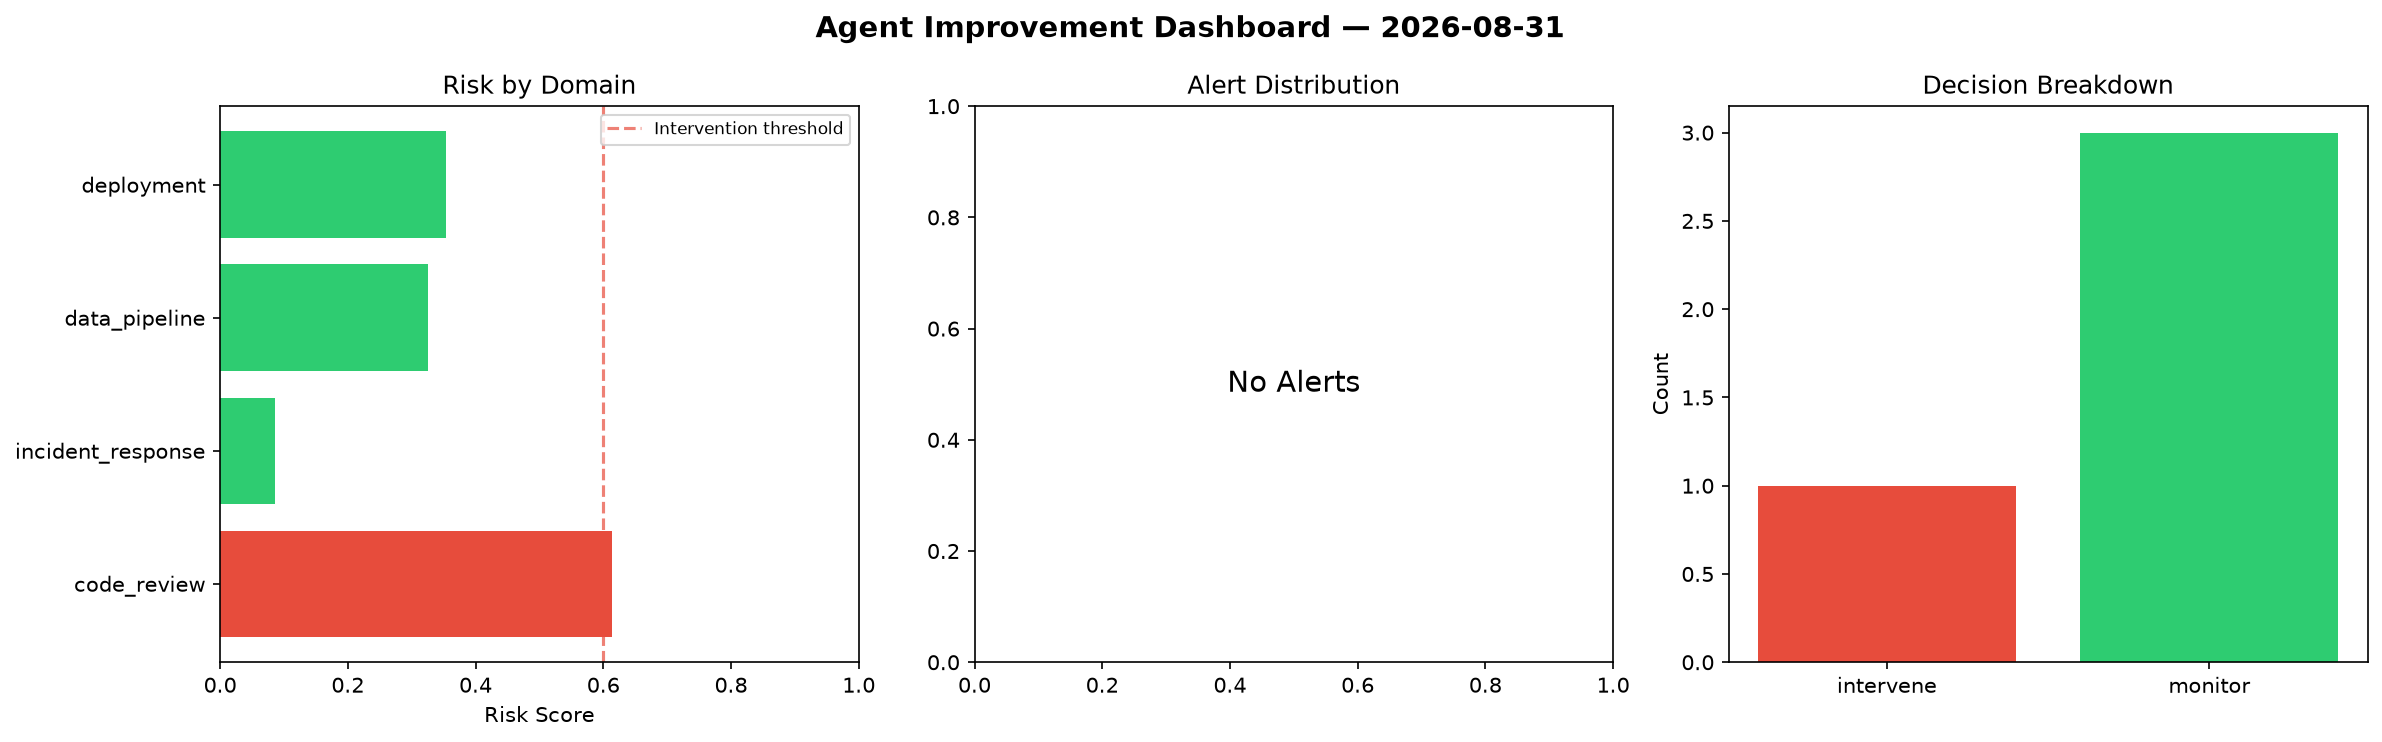
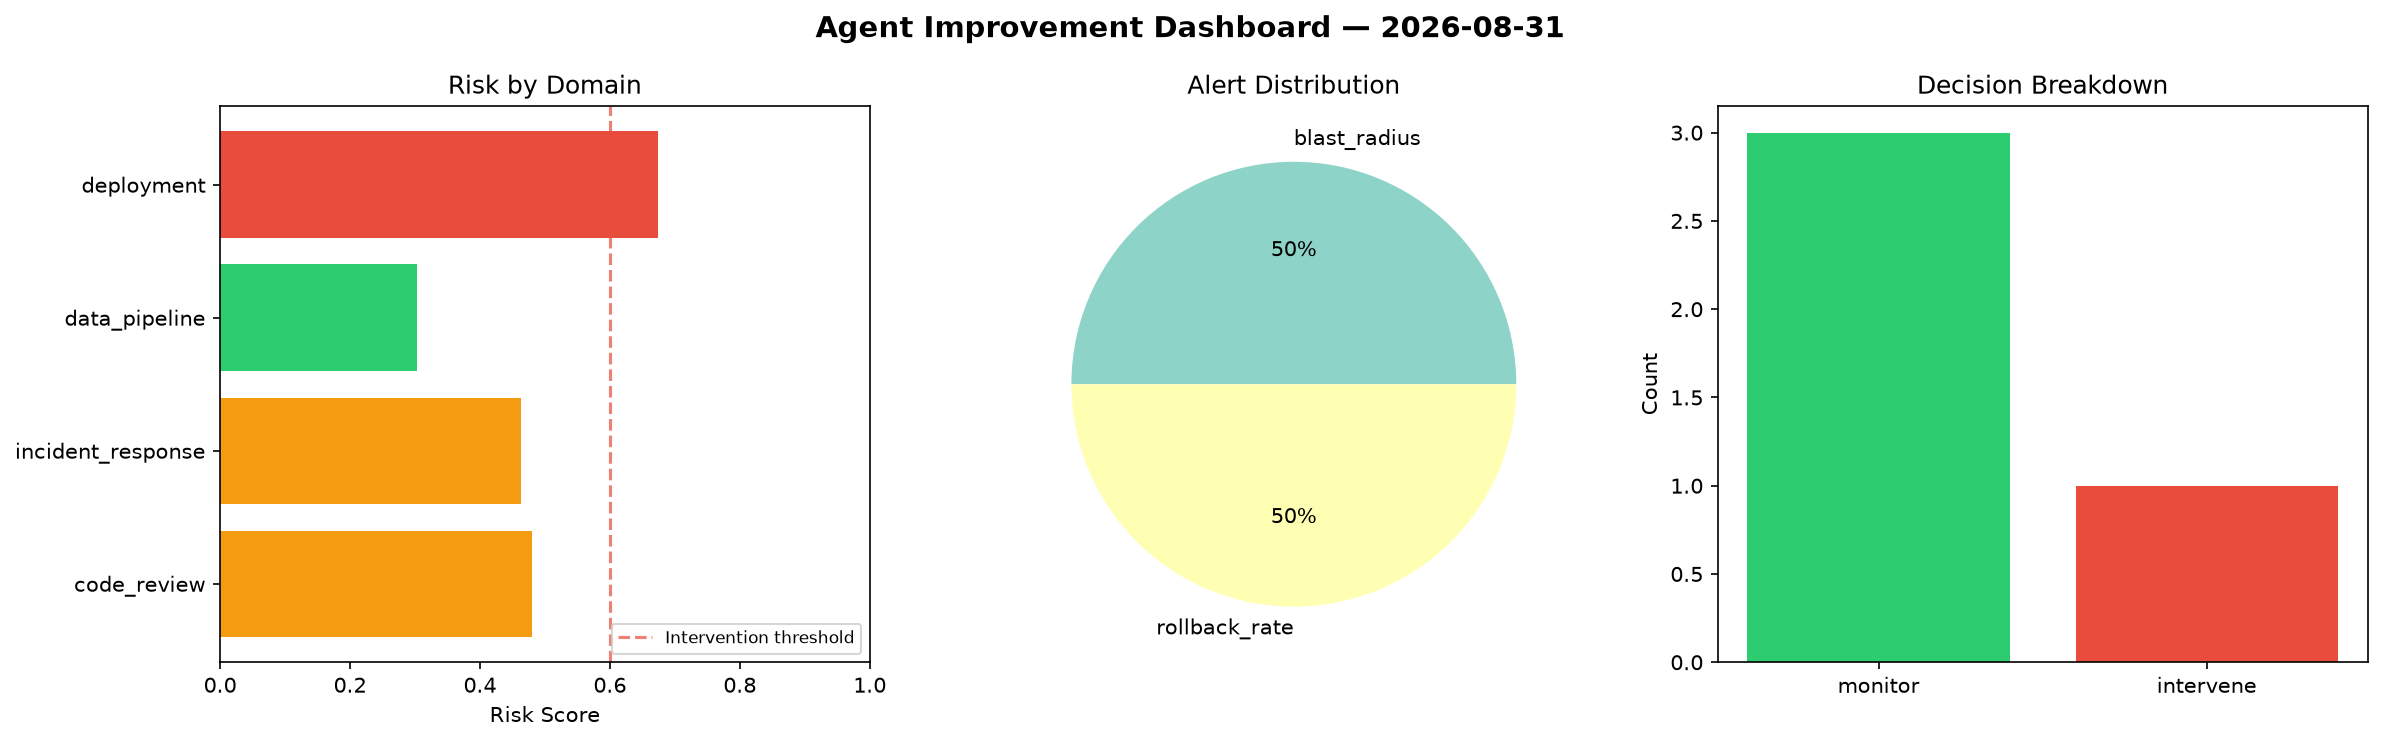
agent-improvement: daily cycle 2026-08-31T23:49

diff --git a/logs/2026-08-31.md b/logs/2026-08-31.md
@@ -1,6 +1,6 @@
 # Agent Improvement Report — 2026-08-31
 
-**Cycle ID:** `0c4714f0` | **Avg Risk:** 0.3447 | **Interventions:** 1/4
+**Cycle ID:** `4d88e0da` | **Avg Risk:** 0.4806 | **Interventions:** 1/4
 
 ![Dashboard](2026-08-31_dashboard.png)
 
@@ -10,18 +10,18 @@
 
 | Domain | Risk Score | Decision | Alerts |
 |--------|-----------|----------|--------|
-| code_review | 0.6134 | intervene | none |
-| incident_response | 0.0859 | monitor | none |
-| data_pipeline | 0.3253 | monitor | none |
-| deployment | 0.3543 | monitor | none |
+| code_review | 0.4803 | monitor | none |
+| incident_response | 0.4637 | monitor | blast_radius |
+| data_pipeline | 0.3038 | monitor | none |
+| deployment | 0.6746 | intervene | rollback_rate |
 
 ## Delta vs Yesterday
 
 | Domain | Today | Yesterday | Change |
 |--------|-------|-----------|--------|
-| code_review | 0.6134 | 0.7678 | 📉 -20.1% |
-| incident_response | 0.0859 | 0.5829 | 📉 -85.3% |
-| data_pipeline | 0.3253 | 0.3683 | 📉 -11.7% |
-| deployment | 0.3543 | 0.4072 | 📉 -13.0% |
+| code_review | 0.4803 | 0.7678 | 📉 -37.4% |
+| incident_response | 0.4637 | 0.5829 | 📉 -20.4% |
+| data_pipeline | 0.3038 | 0.3683 | 📉 -17.5% |
+| deployment | 0.6746 | 0.4072 | 📈 65.7% |
 
-**Refinement:** `{'adjustment': 'maintain', 'trend': 'improving', 'window': 4}`
+**Refinement:** `{'adjustment': 'tighten_thresholds', 'trend': 'degrading', 'window': 4}`
